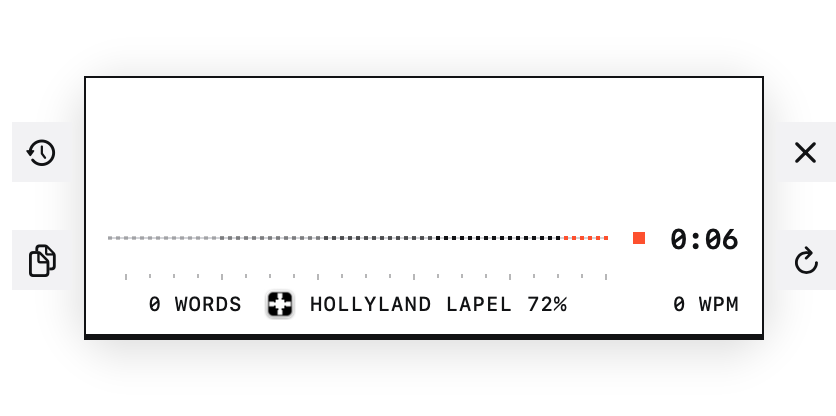
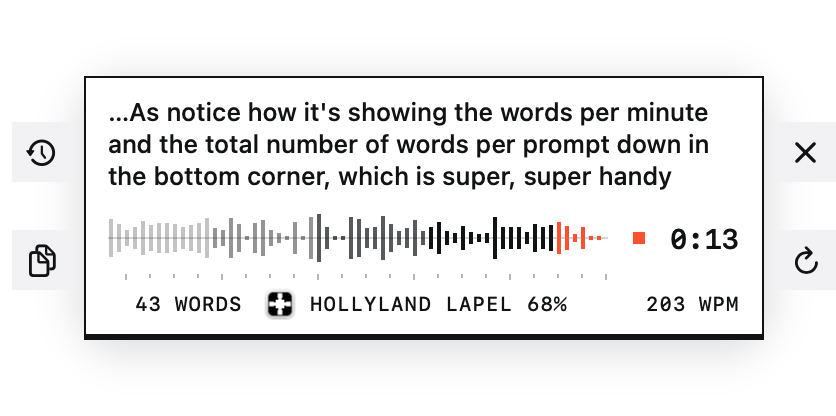
README: a mid-dictation hero with live counters
The new capture shows the transcript, the voice trace, 43 words and
203 WPM, with a caption naming them.

diff --git a/README.md b/README.md
@@ -2,7 +2,9 @@
 
 <p align="center"><b><i>Straight voice to text for macOS, built to land every word</i></b></p>
 
-<p align="center"><img src="docs/images/overlay.png" width="560" alt="The Liquid Voice overlay mid-dictation: a scrolling voice trace, a six-second timer, live word and WPM counters, and the active mic with its battery level. History and copy buttons sit on the left rail, cancel and reprocess on the right."></p>
+<p align="center"><img src="docs/images/overlay.png" width="560" alt="The Liquid Voice overlay mid-dictation: the live transcript above a voice trace, a 13-second timer, 43 words and 203 words per minute in the foot row, and the active mic with its battery level. History and copy sit on the left rail, cancel and reprocess on the right."></p>
+
+<p align="center"><sub>mid-dictation: the live transcript, your voice as a trace, and the word count and words per minute as you speak.</sub></p>
 
 ---
 
